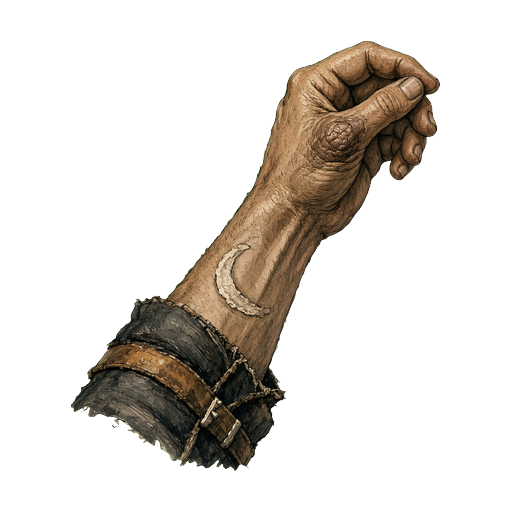
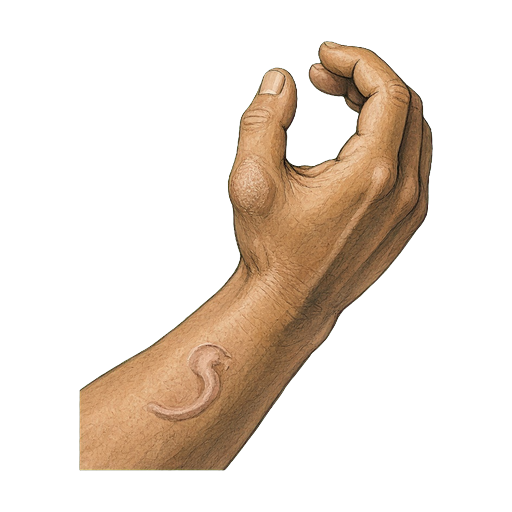
Gemini yeniden üretim Y2: 26 görsel düzeltildi, 1 hâlâ kusurlu, 4 atlandı (Muharrir)

Changed region(s): [[0.125, 0.0625, 0.875, 0.9375]]

diff --git a/docs/arayuz/GEMINI_YENIDEN_URETIM_LISTESI.md b/docs/arayuz/GEMINI_YENIDEN_URETIM_LISTESI.md
@@ -6,14 +6,16 @@ Bu dosya, ana liste (`GEMINI_SIRADAKI_URETIM_LISTESI.md`) ve ek liste (`GEMINI_E
 
 **Toplam aday:** 84 kalem (ana liste 48, ek liste 36).
 
-**Y1 (ilk 30, N062–N266):** 29 düzeldi ve `[x]` işaretlendi; N062 Y1 sonrası hâlâ kusurlu (2 deneme, v1 alındı). Zar ve sabah defteri kareleri bu pencerede yoktu, atlanan yok. Kalan aday: 54 denenmemiş + 1 hâlâ kusurlu.
+**Y1 (ilk 30, N062–N266):** 29 düzeldi ve `[x]` işaretlendi; N062 o partide hâlâ kusurlu kaldı (sonra Y2'de düzeltildi).
+
+**Y2 (N267–E34 + N062 yeniden deneme):** 26 düzeldi (`[x]`, N062 dahil); N310 Y2 sonrası hâlâ kusurlu (2 deneme, v2 alındı). E30, E32, E33, E34 (zar_d6_roll_01/03/04 ve zar_d12_roll_01) atlandı — A1 zar animasyonu başka işte. Kalan aday: 24 denenmemiş + 4 atlanan zar + 1 hâlâ kusurlu.
 
 ---
 
 ## Ana liste (N)
 
-### N062 — `assets/art/char/char_chr_001_neutral_card.png`
-- **Y1 sonrası hâlâ kusurlu:** İki deneme. v1'de doğal şakak izi var ama karakterin *sağ* şakağında (izleyicinin solu); v2 yıldız biçimli damga ve daha çok alın ortasında. Daha iyi olan v1 alındı; sol şakak hâlâ yanlış/eksik.
+### [x] N062 — `assets/art/char/char_chr_001_neutral_card.png`
+- **Y2'de düzeltildi:** Sol profil; karakterin sol şakağında doğal, çizgisel eski yara izi (yıldız damga değil), alın yanına yakın ve sakalsız. Y1 v1 yedeklendi.
 - **Kusur:** Sol şakaktaki eski yara izi yok veya okunaksız; gergin, sert omuzlu adam duruşu duruyor ama tanımlayıcı iz eksik.
 - **Düzeltilmiş prompt ipucu:** Shoulders-up, 600×760, yeşil zemin. Güneş yanığı gergin yüz; **sol şakakta belirgin ama grafik olmayan eski yara izi**; sert omuzlar; yanmış deve yünü ceket ve çamurlu kaba giysi. İzi saç çizgisinin hemen yanında bırak, sakal onu örtmesin.
 
@@ -133,75 +135,76 @@ Bu dosya, ana liste (`GEMINI_SIRADAKI_URETIM_LISTESI.md`) ve ek liste (`GEMINI_E
 - **Kusur:** Kapak boş ama sol bağ uçları simetrik işaret gibi duruyor.
 - **Düzeltilmiş prompt ipucu:** 256×256, yeşil zemin. Kapalı sade deri defter, **tamamen boş kapak**, bağcıklar yazı veya arma gibi hizalanmasın.
 
-### N267 — `assets/art/icons/icon_ozel_esya.png`
+### [x] N267 — `assets/art/icons/icon_ozel_esya.png`
 - **Kusur:** Küçük kumaş bağlı hatıra/bohça değil, kumaş bağlanmış demir kuşaklı sandık.
 - **Düzeltilmiş prompt ipucu:** 256×256, yeşil zemin. **Küçük, kumaşa sarılı sade bir el işi hatıra** (bohça); sandık, kasa, kutu zırhı yok. Yazı yok.
 
-### N270 — `assets/art/icons/icon_yasam_moral.png`
+### [x] N270 — `assets/art/icons/icon_yasam_moral.png`
 - **Kusur:** Küçük ocak alevi ikonu değil, ayaklı mangal ve ateş yığını.
 - **Düzeltilmiş prompt ipucu:** 256×256, yeşil zemin. **Küçük, sıcak ocak alevi** (amber/fildişi, asla lime); ayaklı mangal, odun yığını ve demir sehpa olmasın veya çok sade tutulsun.
 
-### N273 — `assets/art/env/yukleme_01.png`
+### [x] N273 — `assets/art/env/yukleme_01.png`
 - **Kusur:** Gece yolu ve kapı duruyor; sağdaki bayrakta yazıya benzer işaretler var.
 - **Düzeltilmiş prompt ipucu:** 1920×1080 opak. Kapıya yaklaşan sakin gece yolu; **bayrak ve bezler tamamen boş**, harf/işaret yok.
 
-### N284 — `assets/art/inspect/chr_003_trace.png`
+### [x] N284 — `assets/art/inspect/chr_003_trace.png`
 - **Kusur:** Önkoldaki hilal yanık izi var ama başparmak-işaret parmağı perdesindeki derin nasır zayıf/okunaksız.
 - **Düzeltilmiş prompt ipucu:** 512×512, yeşil zemin, yalnız close-up. **Sağ başparmak-işaret perdesinde belirgin iş nasırı** ve önkolda eski hilal ocak yanığı. Figür/yüz yok.
 
-### N285 — `assets/art/inspect/chr_004_trace.png`
+### [x] N285 — `assets/art/inspect/chr_004_trace.png`
 - **Kusur:** Yay kirişi izleri zayıf; sağ avuçta kılıç kabzası nasırı yerine küçük bir nesne (pul/hap) var.
 - **Düzeltilmiş prompt ipucu:** 512×512, yeşil zemin. Sol işaret/orta parmaklarda **eski yay kirişi izleri**; sağ avuçta **kabza nasırı** (avuçta tutulan nesne yok).
 
-### N289 — `assets/art/inspect/chr_008_trace.png`
+### [x] N289 — `assets/art/inspect/chr_008_trace.png`
 - **Kusur:** Yalnız el close-up’ı değil; kapüşonlu yarı figür + kalkmış el. Konu kaymış.
 - **Düzeltilmiş prompt ipucu:** 512×512, yeşil zemin. **Yalnız sağ avuç close-up**: eski, grafik olmayan dağlama izi ve ocak isi bulaşmış parmak uçları. Baş, gövde, kapüşon yok.
 
-### N290 — `assets/art/inspect/chr_009_trace.png`
+### [x] N290 — `assets/art/inspect/chr_009_trace.png`
 - **Kusur:** Sarı baş örtüsü altındaki kulak, yüzü kapatan elle kalabalık; çentik ve tırnak kalıntısı zayıf.
 - **Düzeltilmiş prompt ipucu:** 512×512, yeşil zemin. **Sarı baş örtüsünün altından sağ kulak**, eski çentik izi net; tırnaklarda gri kalıntı. Eli yüzün üstüne kapatma.
 
-### N292 — `assets/art/inspect/chr_011_trace.png`
+### [x] N292 — `assets/art/inspect/chr_011_trace.png`
 - **Kusur:** Yaka morluğu duruyor; yenlerdeki sığ diken çizikleri yok veya çok zayıf.
 - **Düzeltilmiş prompt ipucu:** 512×512, yeşil zemin. Yırtık gömlek yakasından **hafif morluk** ve yenlerde **sığ, grafik olmayan diken çizikleri** (her iki iz de okunaklı).
 
-### N295 — `assets/art/inspect/chr_014_trace.png`
+### [x] N295 — `assets/art/inspect/chr_014_trace.png`
 - **Kusur:** Çizme, el ve omuz birbirinden kopuk üç parça; ıslak kil tırnak ve bası morluğu zayıf.
 - **Düzeltilmiş prompt ipucu:** 512×512, yeşil zemin. Tozlu bot, **tırnaklarda soluk ıslak kil** ve omuz bezinde **hafif bası morluğu**; parçaları aynı close-up’ta tutarlı bir kompozisyonda birleştir (dağınık uçuşan uzuvlar değil).
 
-### N296 — `assets/art/inspect/chr_015_trace.png`
+### [x] N296 — `assets/art/inspect/chr_015_trace.png`
 - **Kusur:** Tebeşirimsi harç lekesi ve kaldıraç sıyrığı belirsiz; iki kol daha çok manşet gibi duruyor.
 - **Düzeltilmiş prompt ipucu:** 512×512, yeşil zemin. Önkollarda **açık renk harç/kireç lekesi** ve sağ bilekte **eski, grafik olmayan kaldıraç sıyrığı**, ikisi de net.
 
-### N297 — `assets/art/inspect/chr_016_trace.png`
+### [x] N297 — `assets/art/inspect/chr_016_trace.png`
 - **Kusur:** Halat sürtünmesi yerine kesik gibi kırmızı çizgi; yen ucundaki kenevir lifi yok/zayıf.
 - **Düzeltilmiş prompt ipucu:** 512×512, yeşil zemin. Sol bilekte **sığ halat sürtünme izi** (kesik değil) ve yen ucunda **kopuk kenevir lifleri**.
 
-### N299 — `assets/art/inspect/chr_018_trace.png`
+### [x] N299 — `assets/art/inspect/chr_018_trace.png`
 - **Kusur:** Yen dikişinde iki küçük bamya tohumu yerine elde bütün bir kuru bakla/koçan var.
 - **Düzeltilmiş prompt ipucu:** 512×512, yeşil zemin. **Yen dikişinde iki minik bamya tohumu** ve tırnaklarda kuru kabuk kırıntısı; elde bütün koçan olmasın.
 
-### N300 — `assets/art/inspect/chr_019_trace.png`
+### [x] N300 — `assets/art/inspect/chr_019_trace.png`
 - **Kusur:** İki parça da paça gibi; yendeki ıslak su çizgisi zayıf, çamur taze sulama çamuru gibi durmuyor.
 - **Düzeltilmiş prompt ipucu:** 512×512, yeşil zemin. **Paçada taze sulama çamuru** ve yanında **ıslak su çizgili bir yen**, ikisi ayırt edilsin.
 
-### N302 — `assets/art/inspect/chr_021_trace.png`
+### [x] N302 — `assets/art/inspect/chr_021_trace.png`
 - **Kusur:** N297’ye çok benziyor; halat sıyrığı kesik gibi, kenevir lifi yok.
 - **Düzeltilmiş prompt ipucu:** 512×512, yeşil zemin. Sol bilekte **sığ halat sıyrığı** ve birkaç **takılı kenevir lifi**; kırmızı kesik çizgisi olmasın. N297’den kompozisyonca ayır (farklı açı/yen).
 
-### N303 — `assets/art/inspect/chr_022_trace.png`
+### [x] N303 — `assets/art/inspect/chr_022_trace.png`
 - **Kusur:** Davul askısı bası izi zayıf; kopuk toka deliği yerine sağlam metal plaka/toka var.
 - **Düzeltilmiş prompt ipucu:** 512×512, yeşil zemin. Sol omuz giysisinde **soluk askı bası izi** ve **kopuk/boş toka deliği** (sağlam takılı toka değil).
 
-### N306 — `assets/art/inspect/chr_025_trace.png`
+### [x] N306 — `assets/art/inspect/chr_025_trace.png`
 - **Kusur:** Koltuk altı yen dikişi yerine kapitone kol; un ve ekmek kırıntısı zayıf.
 - **Düzeltilmiş prompt ipucu:** 512×512, yeşil zemin. **Sol koltuk altı giysi dikişinde kurumuş un** ve **küçük bir ekmek kırıntısı**; kapitone zırh kolu olmasın.
 
-### N307 — `assets/art/inspect/chr_026_trace.png`
+### [x] N307 — `assets/art/inspect/chr_026_trace.png`
 - **Kusur:** Halat sürtünme halkası yerine bilekte duran ip/bilezik gibi duruyor.
 - **Düzeltilmiş prompt ipucu:** 512×512, yeşil zemin. Sağ bilekte **ip olmayan, ciltte kalmış sürtünme halkası** (takılı ip veya bilezik değil).
 
 ### N310 — `assets/art/inspect/chr_029_trace.png`
+- **Y2 sonrası hâlâ kusurlu:** İki deneme. Kese ağzındaki isli dikiş iyileşti ama sağ başparmak çekiç ezikleri hâlâ zayıf/okunaksız. Daha iyi olan v2 alındı.
 - **Kusur:** Başparmakta çekiç ezikleri zayıf; kese ağzındaki isli dikiş belirsiz.
 - **Düzeltilmiş prompt ipucu:** 512×512, yeşil zemin. Sağ başparmakta **eski küçük çekiç ezikleri** ve yanında **ağız dikişi isli bir kese**, her iki iz de okunaklı.
 
@@ -209,51 +212,55 @@ Bu dosya, ana liste (`GEMINI_SIRADAKI_URETIM_LISTESI.md`) ve ek liste (`GEMINI_E
 
 ## Ek liste (E)
 
-### E04 — `assets/art/ui/icon_job_yol_hendek_48.png`
+### [x] E04 — `assets/art/ui/icon_job_yol_hendek_48.png`
 - **Kusur:** Çapraz kazma ve hendek küreği 48px’te birbirine karışıyor, silüetler ayırt zor.
 - **Düzeltilmiş prompt ipucu:** 48×48, 2px pay. **Ahşap saplı kazma × demir hendek küreği**, iki alet 48px’te ayrı okunaklı silüetler olsun, aşırı bindirme yok.
 
-### E06 — `assets/art/ui/icon_job_nobete_eslik_48.png`
+### [x] E06 — `assets/art/ui/icon_job_nobete_eslik_48.png`
 - **Kusur:** Kısa mızrak × yanık reçine meşale kalabalık; meşale alevi zayıf veya kaybolmuş (alevi asla lime yapma).
 - **Düzeltilmiş prompt ipucu:** 48×48, 2px pay. **Kısa saplı mızrak, yanmakta olan tahta/reçine meşale ile çapraz**; alev amber/fildişi, `#00FF00` değil ki anahtar yemesin.
 
-### E12 — `assets/art/icons/icon_ozel_turkmen_kecesi.png`
+### [x] E12 — `assets/art/icons/icon_ozel_turkmen_kecesi.png`
 - **Kusur:** Katlı Türkmen aba/keçe cüppe değil, küçük kitap veya keçe tabaka yığını; geometrik kenar bordürü zayıf.
 - **Düzeltilmiş prompt ipucu:** 64×64, 2px pay. **Düzgün katlanmış, deve tüyü kahverengi kalın Türkmen keçe aba**, ince fildişi geometrik kenar bordürü (yazı değil). Kitap olmasın.
 
-### E17 — `assets/art/icons/icon_ozel_celik_pul.png`
+### [x] E17 — `assets/art/icons/icon_ozel_celik_pul.png`
 - **Kusur:** Bağlanmış, perçinli lamel zırh pulu değil, üst üste dizilmiş pul/para silindiri.
 - **Düzeltilmiş prompt ipucu:** 64×64, 2px pay. **Deri şeritle bağlanmış, binen perçinli çelik lamel zırh pulu** (zırh parçası); madeni para rulosu olmasın.
 
-### E21 — `assets/art/char/char_zeynep_ilk_aile_neutral_card.png`
+### [x] E21 — `assets/art/char/char_zeynep_ilk_aile_neutral_card.png`
 - **Kusur:** 26 yaşında yorgun, yerinden edilmiş köylü karısı yerine daha bakımlı/genç portre; rüzgâr çatlamış yanak ve “tükenmiş ama kırılmamış” ifade zayıf.
 - **Düzeltilmiş prompt ipucu:** Shoulders-up, 600×760. **Yorgun ama kararlı 26 yaşında** yerinden edilmiş Anadolu köylü kadını (Zeynep): rüzgâr çatlamış yanaklar, sakin cesur bakış, yıpranmış fildişi baş örtüsü soluk kızıl şalın altında. Bakımlı/idealize yüz olmasın.
 
-### E22 — `assets/art/char/char_ayse_baci_neutral_card.png`
+### [x] E22 — `assets/art/char/char_ayse_baci_neutral_card.png`
 - **Kusur:** 45 yaş Bacıyan-ı Rum usta annesi duruşu zayıf; daha yumuşak, gülümseyen portre, otorite eksik.
 - **Düzeltilmiş prompt ipucu:** Shoulders-up, 600×760. **45 yaşında muhterem dokuma ustası** (Ayşe Bacı): sade bej baş örtüsü, işlemeli zanaatkâr yelek, **vakur, şefkatli ve otoriter lonca annesi ifadesi**.
 
-### E24 — `assets/art/char/char_nogay_neutral_card.png`
+### [x] E24 — `assets/art/char/char_nogay_neutral_card.png`
 - **Kusur:** Konik kürklü keçe kalpak var; göğüste yay askısı yok veya çok zayıf.
 - **Düzeltilmiş prompt ipucu:** Shoulders-up, 600×760. 32 yaş bozkır avcısı (Nogay): yüksek elmacık, seyrek bıyık, konik kürk kenarlı keçe kalpak, ham geyik derisi tunik, **göğsü çapraz kesen yay askısı net görünsün**; keskin, sessiz bakış.
 
-### E27 — `assets/art/char/char_nalbur_neutral_card.png`
+### [x] E27 — `assets/art/char/char_nalbur_neutral_card.png`
 - **Kusur:** Örgülü demir halka yaka yok; kurum lekesi ve nalbur/hırdavatçı kimliği zayıf.
 - **Düzeltilmiş prompt ipucu:** Shoulders-up, 600×760. Yapılı 44 yaş gezgin nalbur: şakaklarda is lekesi, **örgü demir halka yaka**, koyu keçe kalpak, yara izli ağır deri önlük, pratik kısık bakış.
 
 ### E30 — `assets/art/anim/zar_d6_roll_01.png`
+- **Y2'de atlandı:** A1 zar animasyonu başka işte yeniden yapılıyor; bu partide dokunulmadı.
 - **Kusur:** 35 derecelik fırlatma açısı yok; zar neredeyse oturmuş/az eğik. Yüzler boş (iyi).
 - **Düzeltilmiş prompt ipucu:** 256×256, yeşil zemin. Fildişi d6, **ortada 35 derece yukarı eğik fırlatma duruşu**, yüzler tamamen boş (pips/rakam yok).
 
 ### E32 — `assets/art/anim/zar_d6_roll_03.png`
+- **Y2'de atlandı:** A1 zar animasyonu başka işte yeniden yapılıyor; bu partide dokunulmadı.
 - **Kusur:** İstenen düşük ~12° yatış yerine E31’e çok yakın açı.
 - **Düzeltilmiş prompt ipucu:** Aynı zar kimliği, kare 3/4: **yalnızca yaklaşık 12° alçak yatış**, E31’den bariz daha yatık. Boş yüzler.
 
 ### E33 — `assets/art/anim/zar_d6_roll_04.png`
+- **Y2'de atlandı:** A1 zar animasyonu başka işte yeniden yapılıyor; bu partide dokunulmadı.
 - **Kusur:** Zar değil, düz levha/plaket gibi tek yüz.
 - **Düzeltilmiş prompt ipucu:** Aynı zar, kare 4/4: **hemen hemen durmuş küp**, üç boyutlu (tek düz kare plaka değil), boş yüzler.
 
 ### E34 — `assets/art/anim/zar_d12_roll_01.png`
+- **Y2'de atlandı:** A1 zar animasyonu başka işte yeniden yapılıyor; bu partide dokunulmadı.
 - **Kusur:** d12 çerçevesi sonraki karelere (E35–E37) göre küçük/ölçeksiz.
 - **Düzeltilmiş prompt ipucu:** 256×256. Boş yüzlü d12, **E35–E37 ile aynı nesne ölçeği ve çerçeve payı**; ilk kareyi küçük çizme.
 
